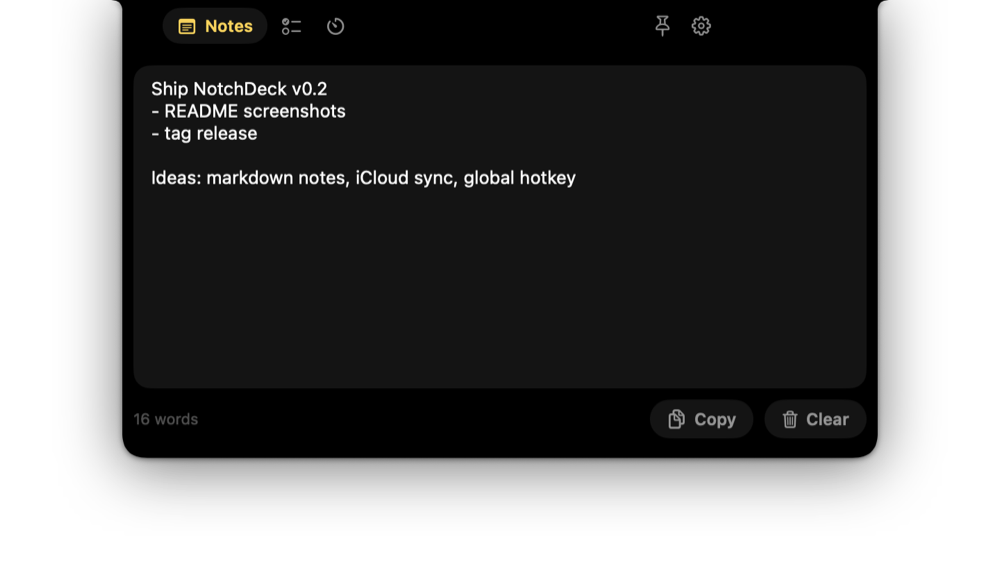
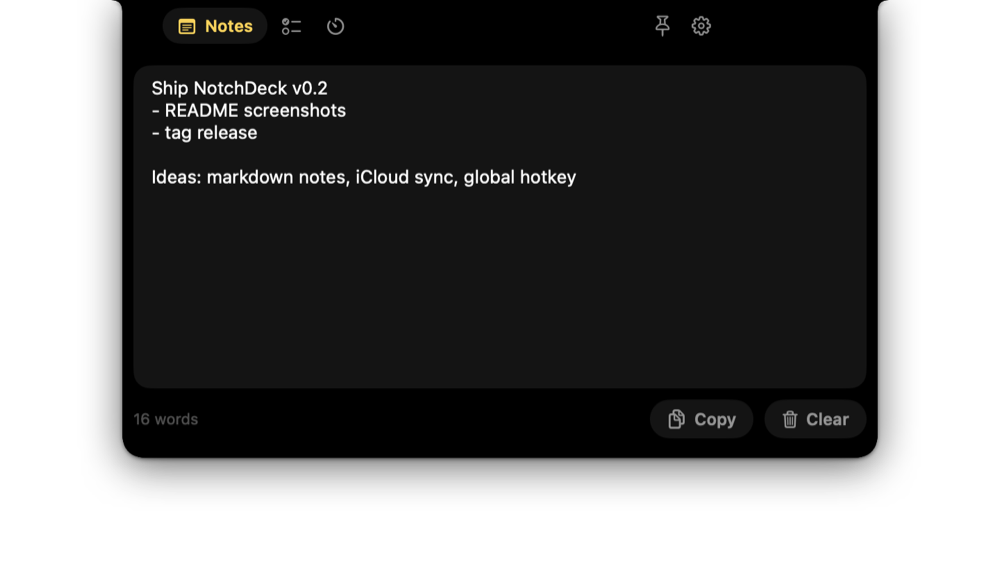
Smooth open/close, adjustable animation speed, universal binary
- Shadow drawn with Core Graphics in a full-window Canvas: SwiftUI's .shadow
  truncates the blur one radius out, which showed as a hard rectangle on flat
  backgrounds and popped between the animating and static renderers.
- Content visibility is sequenced around the shape animation (fade out, then
  shrink; grow, then fade in) so nothing is drawn outside the black. Clip and
  mask modifiers snap to their final size, which is what leaked before.
- The post-collapse window resize is laid out synchronously off any animation
  transaction, removing the jump that followed each close.
- Settings: separate open and close durations with a reset to defaults.
- Makefile builds a universal (arm64 + x86_64) binary by default.
- README screenshots re-captured.

Changed region(s): [[0.155, 0.1494, 0.341, 0.2689], [0.155, 0.2988, 0.589, 0.3286]]

diff --git a/Sources/NotchDeck/NotchWindowController.swift b/Sources/NotchDeck/NotchWindowController.swift
@@ -28,6 +28,7 @@ final class NotchWindowController {
     private var panel: NotchPanel!
     private var hostingView: NotchHostingView<AnyView>!
     private var collapseWorkItem: DispatchWorkItem?
+    private var phaseWork: [DispatchWorkItem] = []
     private var cancellables = Set<AnyCancellable>()
     private var mouseMonitors: [Any] = []
     private var mouseInside = false
@@ -198,33 +199,93 @@ final class NotchWindowController {
 
     private func expand() {
         collapseWorkItem?.cancel()
-        guard !viewModel.isExpanded else { return }
+        cancelPhases()
+        if viewModel.isExpanded {
+            // Re-entered during a collapse's fade-out: just bring the content back.
+            withAnimation(.easeOut(duration: 0.15)) { viewModel.showExpandedContent = true }
+            return
+        }
         panel.setFrame(viewModel.geometry.windowFrame(for: viewModel.expandedSize), display: true)
-        withAnimation(.spring(response: 0.35, dampingFraction: 0.82)) {
+        hostingView.layoutSubtreeIfNeeded()
+        withoutAnimation { viewModel.showCollapsedContent = false }
+        let open = store.settings.openDuration
+        withAnimation(.spring(response: open, dampingFraction: 0.86)) {
             viewModel.isExpanded = true
+        }
+        // Content fades in once the shape has grown; clip/mask modifiers snap to
+        // the final size instead of animating, so earlier would leak outside.
+        after(open * 0.94) { [weak self] in
+            withAnimation(.easeOut(duration: min(0.15, open / 2))) { self?.viewModel.showExpandedContent = true }
         }
     }
 
     private func collapse(force: Bool = false) {
         collapseWorkItem?.cancel()
+        cancelPhases()
         guard viewModel.isExpanded || force else { return }
         if force { viewModel.isPinned = false }
         viewModel.showingSettings = false
-        withAnimation(.spring(response: 0.3, dampingFraction: 0.9)) {
-            viewModel.isExpanded = false
-        }
+
         // Give keyboard focus back to whatever app the user was using.
         if panel.isKeyWindow {
             panel.makeFirstResponder(nil)
             panel.orderOut(nil)
             if isVisible || !force { panel.orderFrontRegardless() }
         }
-        DispatchQueue.main.asyncAfter(deadline: .now() + 0.28) { [weak self] in
-            guard let self, !self.viewModel.isExpanded else { return }
-            self.panel.setFrame(self.viewModel.geometry.windowFrame(for: self.viewModel.collapsedSize), display: true)
-            self.mouseInside = self.shapeFrame.contains(NSEvent.mouseLocation)
-            self.panel.ignoresMouseEvents = !self.mouseInside
+
+        let close = store.settings.closeDuration
+        let fadeOut = min(0.1, close / 3)
+        let shrink: () -> Void = { [weak self] in
+            guard let self else { return }
+            withAnimation(.spring(response: close, dampingFraction: 0.9)) {
+                self.viewModel.isExpanded = false
+            }
+            self.after(close) { [weak self] in
+                guard let self, !self.viewModel.isExpanded else { return }
+                // Resize the window (margin only; the shape stays put on screen) and
+                // lay out synchronously. The fade below starts on the next tick so
+                // SwiftUI does not fold the resize into that animation.
+                self.panel.setFrame(self.viewModel.geometry.windowFrame(for: self.viewModel.collapsedSize), display: true)
+                self.hostingView.layoutSubtreeIfNeeded()
+                self.mouseInside = self.shapeFrame.contains(NSEvent.mouseLocation)
+                self.panel.ignoresMouseEvents = !self.mouseInside
+                self.after(0.02) { [weak self] in
+                    withAnimation(.easeIn(duration: 0.15)) { self?.viewModel.showCollapsedContent = true }
+                }
+            }
         }
+
+        if force {
+            withoutAnimation {
+                viewModel.showExpandedContent = false
+                viewModel.isExpanded = false
+                viewModel.showCollapsedContent = true
+            }
+            panel.setFrame(viewModel.geometry.windowFrame(for: viewModel.collapsedSize), display: true)
+        } else {
+            // Phase 1: fade the content out. Phase 2: shrink the shape.
+            withAnimation(.easeOut(duration: fadeOut)) { viewModel.showExpandedContent = false }
+            after(fadeOut, shrink)
+        }
+    }
+
+    // MARK: - Animation phases
+
+    private func after(_ delay: TimeInterval, _ block: @escaping () -> Void) {
+        let work = DispatchWorkItem(block: block)
+        phaseWork.append(work)
+        DispatchQueue.main.asyncAfter(deadline: .now() + delay, execute: work)
+    }
+
+    private func cancelPhases() {
+        phaseWork.forEach { $0.cancel() }
+        phaseWork.removeAll()
+    }
+
+    private func withoutAnimation(_ body: () -> Void) {
+        var t = Transaction()
+        t.disablesAnimations = true
+        withTransaction(t, body)
     }
 
     // MARK: - Layout
@@ -236,7 +297,11 @@ final class NotchWindowController {
         viewModel.geometry = geometry
         if edgeChanged, wasExpanded {
             // Snap closed at the new location; the user is mid-settings so keep it pinned open there.
-            viewModel.isExpanded = false
+            withoutAnimation {
+                viewModel.showExpandedContent = false
+                viewModel.isExpanded = false
+                viewModel.showCollapsedContent = true
+            }
             panel.setFrame(geometry.windowFrame(for: viewModel.collapsedSize), display: true)
             DispatchQueue.main.asyncAfter(deadline: .now() + 0.05) { [weak self] in
                 self?.viewModel.isPinned = true

diff --git a/Sources/NotchDeck/Views/NotchRootView.swift b/Sources/NotchDeck/Views/NotchRootView.swift
@@ -21,27 +21,39 @@ struct NotchRootView: View {
                           bottomRadius: vm.isExpanded ? NotchViewModel.bottomRadius : 12,
                           strength: shadowStrength)
 
+            // Content is laid out at its final size; the controller fades it out
+            // before the shape shrinks and fades it in after the shape has grown,
+            // so nothing is drawn outside the black mid-animation.
             Group {
                 if vm.isExpanded {
                     ExpandedContent()
-                        .transition(.opacity.combined(with: .scale(scale: 0.98, anchor: vm.alignment.unitPoint)))
+                        .frame(width: vm.expandedSize.width, height: vm.expandedSize.height)
+                        .opacity(vm.showExpandedContent ? 1 : 0)
+                        .transition(.identity)
                 } else {
                     CollapsedContent()
-                        .transition(.opacity)
+                        .frame(width: vm.collapsedSize.width, height: vm.collapsedSize.height)
+                        .opacity(vm.showCollapsedContent ? 1 : 0)
+                        .transition(.identity)
                 }
             }
-            .frame(width: vm.currentSize.width, height: vm.currentSize.height)
-            .clipShape(shape)
+            .frame(maxWidth: .infinity, maxHeight: .infinity, alignment: vm.alignment)
+            // Mask with the very same animated drawing as the black fill, so the
+            // content can never show outside the shape, even mid-animation.
+            .mask(ShadowedNotch(size: vm.currentSize, edge: vm.edge,
+                                bottomRadius: vm.isExpanded ? NotchViewModel.bottomRadius : 12,
+                                strength: 0))
         }
         .frame(maxWidth: .infinity, maxHeight: .infinity, alignment: vm.alignment)
         .preferredColorScheme(.dark)
     }
 }
 
-/// Draws the notch silhouette with a soft drop shadow. The path is laid out in
-/// a view that spans the whole window (not just the shape), so the shadow's
-/// render bounds are the window bounds and nothing gets clipped at the edge
-/// of the shape. Animates with the shape's size like the `.frame` on the fill.
+/// Draws the notch silhouette with a soft drop shadow, rasterized with Core
+/// Graphics in a Canvas that spans the whole window. SwiftUI's `.shadow`
+/// truncates the blur about one radius out, which shows as a faint hard
+/// rectangle on flat backgrounds and pops when the renderer switches between
+/// its animating and static paths; a CG shadow fades all the way out.
 struct ShadowedNotch: View, Animatable {
     var size: CGSize
     var edge: NotchEdge
@@ -54,13 +66,32 @@ struct ShadowedNotch: View, Animatable {
     }
 
     var body: some View {
-        GeometryReader { geo in
-            let rect = shapeRect(in: geo.size)
-            let shape = NotchShape(edge: edge, earRadius: NotchViewModel.earRadius, bottomRadius: bottomRadius)
-            Path(shape.path(in: rect).cgPath)
-                .fill(Theme.background)
-                .shadow(color: .black.opacity(strength * 0.5), radius: 2, y: 1)
-                .shadow(color: .black.opacity(strength * 0.55), radius: 22, y: 6)
+        Canvas(rendersAsynchronously: false) { context, canvasSize in
+            let rect = shapeRect(in: canvasSize)
+            let path = NotchShape(edge: edge, earRadius: NotchViewModel.earRadius, bottomRadius: bottomRadius)
+                .path(in: rect).cgPath
+            context.withCGContext { cg in
+                if strength > 0 {
+                    // Soft ambient shadow, offset slightly downwards (the Canvas context is flipped).
+                    cg.saveGState()
+                    cg.setShadow(offset: CGSize(width: 0, height: 6), blur: 30,
+                                 color: CGColor(gray: 0, alpha: 0.6 * strength))
+                    cg.addPath(path)
+                    cg.setFillColor(CGColor(gray: 0, alpha: 1))
+                    cg.fillPath()
+                    cg.restoreGState()
+                    // Tight contact shadow.
+                    cg.saveGState()
+                    cg.setShadow(offset: CGSize(width: 0, height: 1), blur: 3,
+                                 color: CGColor(gray: 0, alpha: 0.5 * strength))
+                    cg.addPath(path)
+                    cg.fillPath()
+                    cg.restoreGState()
+                }
+                cg.addPath(path)
+                cg.setFillColor(CGColor(gray: 0, alpha: 1))
+                cg.fillPath()
+            }
         }
         .allowsHitTesting(false)
     }

diff --git a/Sources/NotchDeck/Views/SettingsPane.swift b/Sources/NotchDeck/Views/SettingsPane.swift
@@ -6,6 +6,14 @@ struct SettingsPane: View {
     @State private var launchAtLogin = LaunchAtLogin.isEnabled
 
     var body: some View {
+        ScrollView(.vertical) {
+            columns
+        }
+        .scrollIndicators(.never)
+        .onChange(of: store.settings.pomodoro) { _, _ in pomodoro.settingsDidChange() }
+    }
+
+    private var columns: some View {
         HStack(alignment: .top, spacing: 20) {
             section("Pomodoro") {
                 durationRow("Focus", value: $store.settings.pomodoro.focusMinutes, range: 1...120)
@@ -43,14 +51,61 @@ struct SettingsPane: View {
                 toggleRow("Launch at login", isOn: $launchAtLogin)
                     .disabled(!LaunchAtLogin.isAvailable)
                     .onChange(of: launchAtLogin) { _, v in LaunchAtLogin.isEnabled = v }
-                Spacer()
+
+                animationSection
+                    .padding(.top, 6)
+
                 Text("Data lives in ~/Library/Application Support/NotchDeck")
                     .font(.system(size: 10))
                     .foregroundStyle(Theme.tertiaryText)
                     .fixedSize(horizontal: false, vertical: true)
+                    .padding(.top, 4)
             }
         }
-        .onChange(of: store.settings.pomodoro) { _, _ in pomodoro.settingsDidChange() }
+    }
+
+    private var isDefaultAnimation: Bool {
+        store.settings.openDuration == AppSettings.defaultOpenDuration
+            && store.settings.closeDuration == AppSettings.defaultCloseDuration
+    }
+
+    private var animationSection: some View {
+        VStack(alignment: .leading, spacing: 8) {
+            HStack {
+                Text("ANIMATION")
+                    .font(.system(size: 10, weight: .bold))
+                    .tracking(1)
+                    .foregroundStyle(Theme.tertiaryText)
+                Spacer()
+                Button("Reset to default") {
+                    store.settings.openDuration = AppSettings.defaultOpenDuration
+                    store.settings.closeDuration = AppSettings.defaultCloseDuration
+                }
+                .buttonStyle(.plain)
+                .font(.system(size: 10, weight: .semibold))
+                .foregroundStyle(isDefaultAnimation ? Theme.tertiaryText : Theme.accent(for: .pomodoro))
+                .disabled(isDefaultAnimation)
+            }
+            durationSlider("Open", value: $store.settings.openDuration)
+            durationSlider("Close", value: $store.settings.closeDuration)
+        }
+    }
+
+    private func durationSlider(_ label: String, value: Binding<Double>) -> some View {
+        HStack(spacing: 8) {
+            Text(label)
+                .font(.system(size: 12))
+                .foregroundStyle(Theme.text)
+                .frame(width: 40, alignment: .leading)
+            Slider(value: value, in: AppSettings.durationRange, step: 0.01)
+                .controlSize(.mini)
+                .tint(Theme.accent(for: .pomodoro))
+            Text(String(format: "%.2f s", value.wrappedValue))
+                .font(.system(size: 11, weight: .semibold, design: .rounded))
+                .monospacedDigit()
+                .foregroundStyle(Theme.secondaryText)
+                .frame(width: 44, alignment: .trailing)
+        }
     }
 
     private func section<Content: View>(_ title: String, @ViewBuilder content: () -> Content) -> some View {

diff --git a/Sources/NotchDeck/Models.swift b/Sources/NotchDeck/Models.swift
@@ -49,6 +49,13 @@ struct AppSettings: Codable, Equatable {
     var edge: NotchEdge = .top
     /// 0...1 position along a side edge (0 = top of screen, 1 = bottom). Ignored for `.top`.
     var edgeOffset: Double = 0.5
+    /// Seconds for the panel to open / close.
+    var openDuration: Double = AppSettings.defaultOpenDuration
+    var closeDuration: Double = AppSettings.defaultCloseDuration
+
+    static let defaultOpenDuration = 0.32
+    static let defaultCloseDuration = 0.30
+    static let durationRange = 0.1...1.0
 
     // Tolerate missing keys when the schema grows.
     init() {}
@@ -60,6 +67,8 @@ struct AppSettings: Codable, Equatable {
         openOnHover = try c.decodeIfPresent(Bool.self, forKey: .openOnHover) ?? true
         edge = try c.decodeIfPresent(NotchEdge.self, forKey: .edge) ?? .top
         edgeOffset = try c.decodeIfPresent(Double.self, forKey: .edgeOffset) ?? 0.5
+        openDuration = try c.decodeIfPresent(Double.self, forKey: .openDuration) ?? AppSettings.defaultOpenDuration
+        closeDuration = try c.decodeIfPresent(Double.self, forKey: .closeDuration) ?? AppSettings.defaultCloseDuration
     }
 }
 

diff --git a/Sources/NotchDeck/NotchViewModel.swift b/Sources/NotchDeck/NotchViewModel.swift
@@ -3,6 +3,10 @@ import SwiftUI
 /// UI state for the notch panel, shared between AppKit (window sizing) and SwiftUI (drawing).
 final class NotchViewModel: ObservableObject {
     @Published var isExpanded = false
+    /// Content visibility is sequenced separately from the shape animation so
+    /// nothing is ever drawn outside the black while the shape is moving.
+    @Published var showExpandedContent = false
+    @Published var showCollapsedContent = true
     @Published var isPinned = false
     @Published var selectedTab: NotchTab = .notes
     @Published var showingSettings = false

diff --git a/README.md b/README.md
@@ -63,6 +63,7 @@ Not every Mac has a notch, and not everyone wants the deck at the top. In
 ### Other niceties
 
 - Hover to open, move away to close. Click the pin to keep it open while you type.
+- Open and close speed are adjustable in Settings, with a reset to defaults.
 - Menu bar item with quick "Open Notes / Tasks / Pomodoro", placement, launch at login and quit.
 - Never steals focus from the app you are working in. Keyboard focus returns
   to your previous app as soon as the deck closes.
@@ -76,7 +77,8 @@ Not every Mac has a notch, and not everyone wants the deck at the top. In
 
 **Download**: grab `NotchDeck.zip` from the
 [latest release](https://github.com/cadenburleson/notchdeck/releases/latest),
-unzip, and drag `NotchDeck.app` into `/Applications`.
+unzip, and drag `NotchDeck.app` into `/Applications`. The build is universal
+(Apple silicon and Intel) and needs macOS 14 or later.
 
 The build is ad-hoc signed and not notarized, so the first launch needs one of:
 
@@ -155,6 +157,11 @@ does the same signing. To sign a release by hand instead of in CI, use
   saves and tolerant decoding, so old state files keep loading as fields are added.
 - `UpdateService` wraps `SPUStandardUpdaterController`. Launching the binary
   with `--check-updates` forces a check, which is handy for testing a feed.
+- Open/close is sequenced by `NotchWindowController`: content fades out before
+  the shape shrinks and fades in after it has grown, because SwiftUI's clip and
+  mask modifiers snap to their final size rather than animating with the fill.
+  The window resize that follows a collapse is laid out synchronously, off any
+  animation transaction, so the shape never jumps.
 
 ## Roadmap / ideas
 
